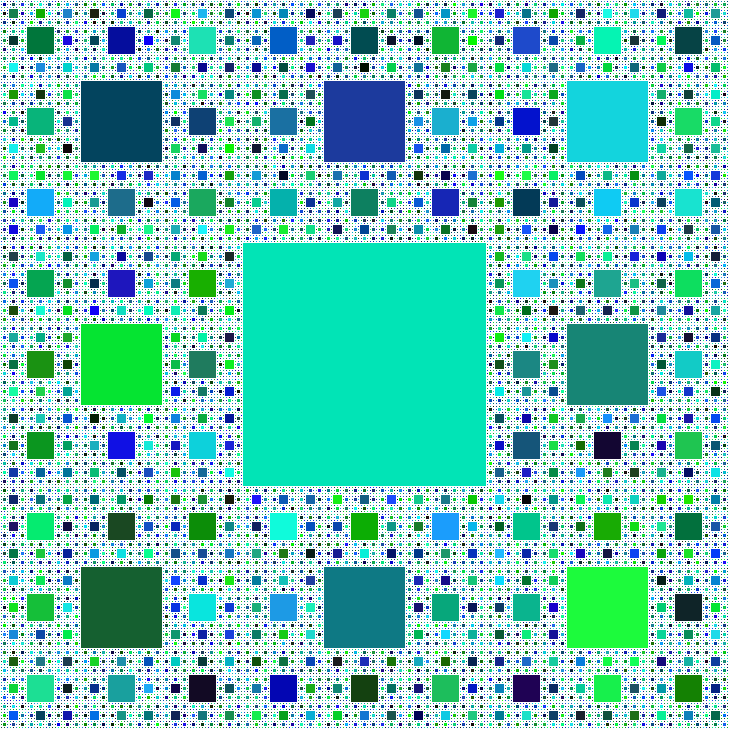
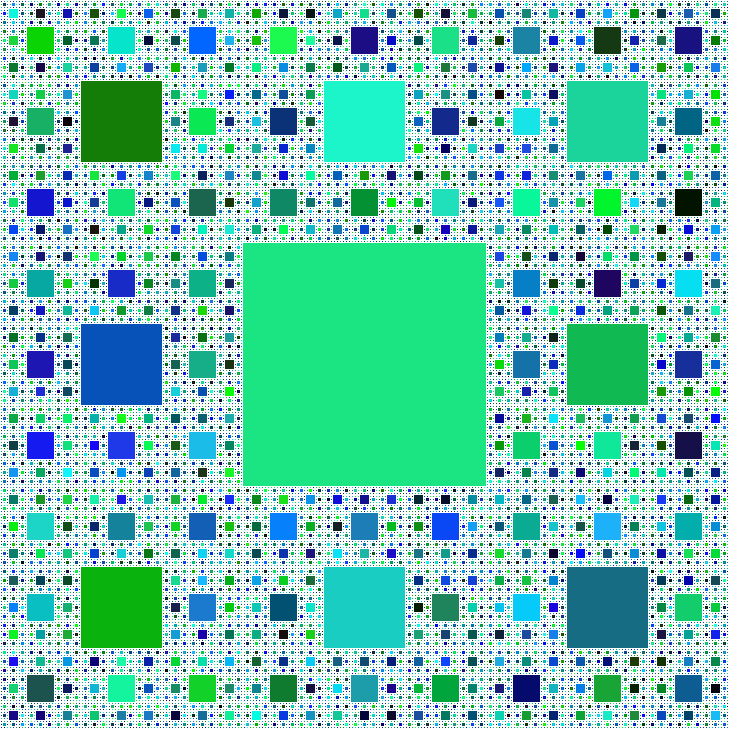
Achieved Maximum Efficiency
Can do trillions of layers in less than 0.1 seconds.

diff --git a/Projects/Recursion/SCarpet.java b/Projects/Recursion/SCarpet.java
@@ -28,17 +28,17 @@ public class SCarpet {
 
    // Draws a Sierpinski carpet at specified layer with the top left at x,y and size size
    public static void drawFigure(Graphics g, int layer, int x, int y, int size) {
+      if (layer > 0 && layer > pixelSize)
+         drawFigure(g, pixelSize, x, y, size);
       if (layer > 0) {
-         if (layer <= pixelSize) {
-            double pixel = size/Math.pow(3, layer);
-            for (int i = 0; i < Math.pow(3, layer-1); i++)
-               for (int j = 0; j < Math.pow(3, layer-1); j++) {
-                  int xPos = (int)(Math.round(pixel*(j)*3 + pixel))+x;
-                  int yPos = (int)(Math.round(pixel*(i)*3 + pixel))+y;
-                  g.setColor(new Color((int)(Math.random()*32),(int)(Math.random()*256),(int)(Math.random()*256)));
-                  g.fillRect(xPos, yPos, (int)(Math.round(pixel)), (int)(Math.round(pixel)));
-               }
-         }
+         double pixel = size/Math.pow(3, layer);
+         for (int i = 0; i < Math.pow(3, layer-1); i++)
+            for (int j = 0; j < Math.pow(3, layer-1); j++) {
+               int xPos = (int)(Math.round(pixel*(j)*3 + pixel))+x;
+               int yPos = (int)(Math.round(pixel*(i)*3 + pixel))+y;
+               g.setColor(new Color((int)(Math.random()*32),(int)(Math.random()*256),(int)(Math.random()*256)));
+               g.fillRect(xPos, yPos, (int)(Math.round(pixel)), (int)(Math.round(pixel)));
+            }
          drawFigure(g, layer-1, x, y, size);
       }
    }
